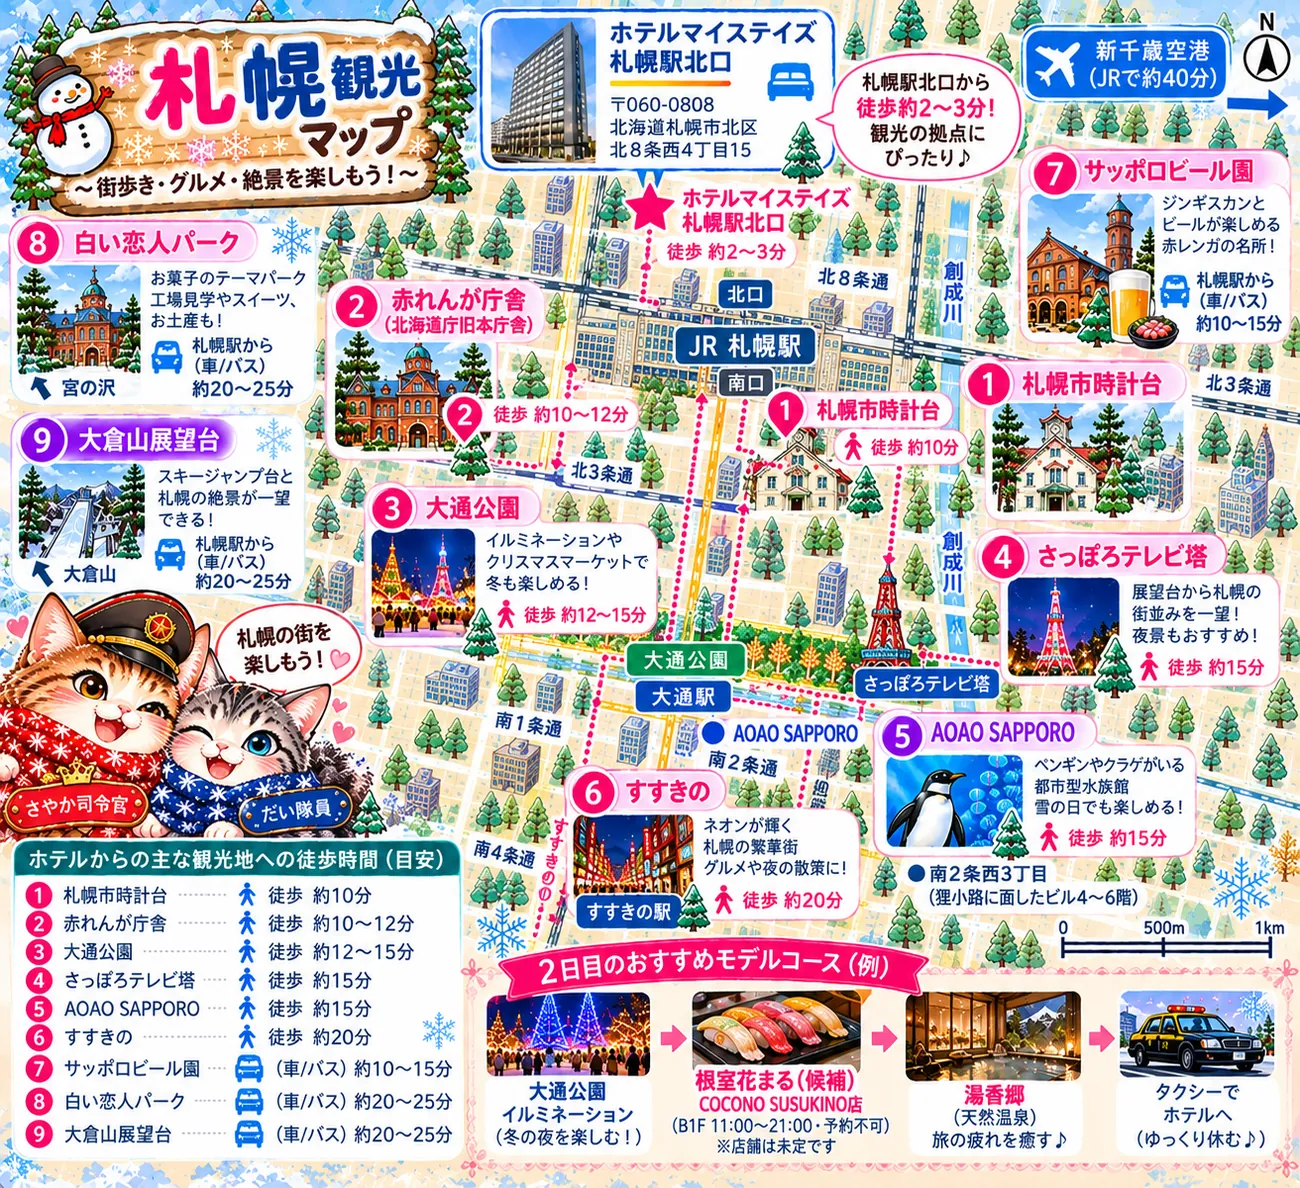
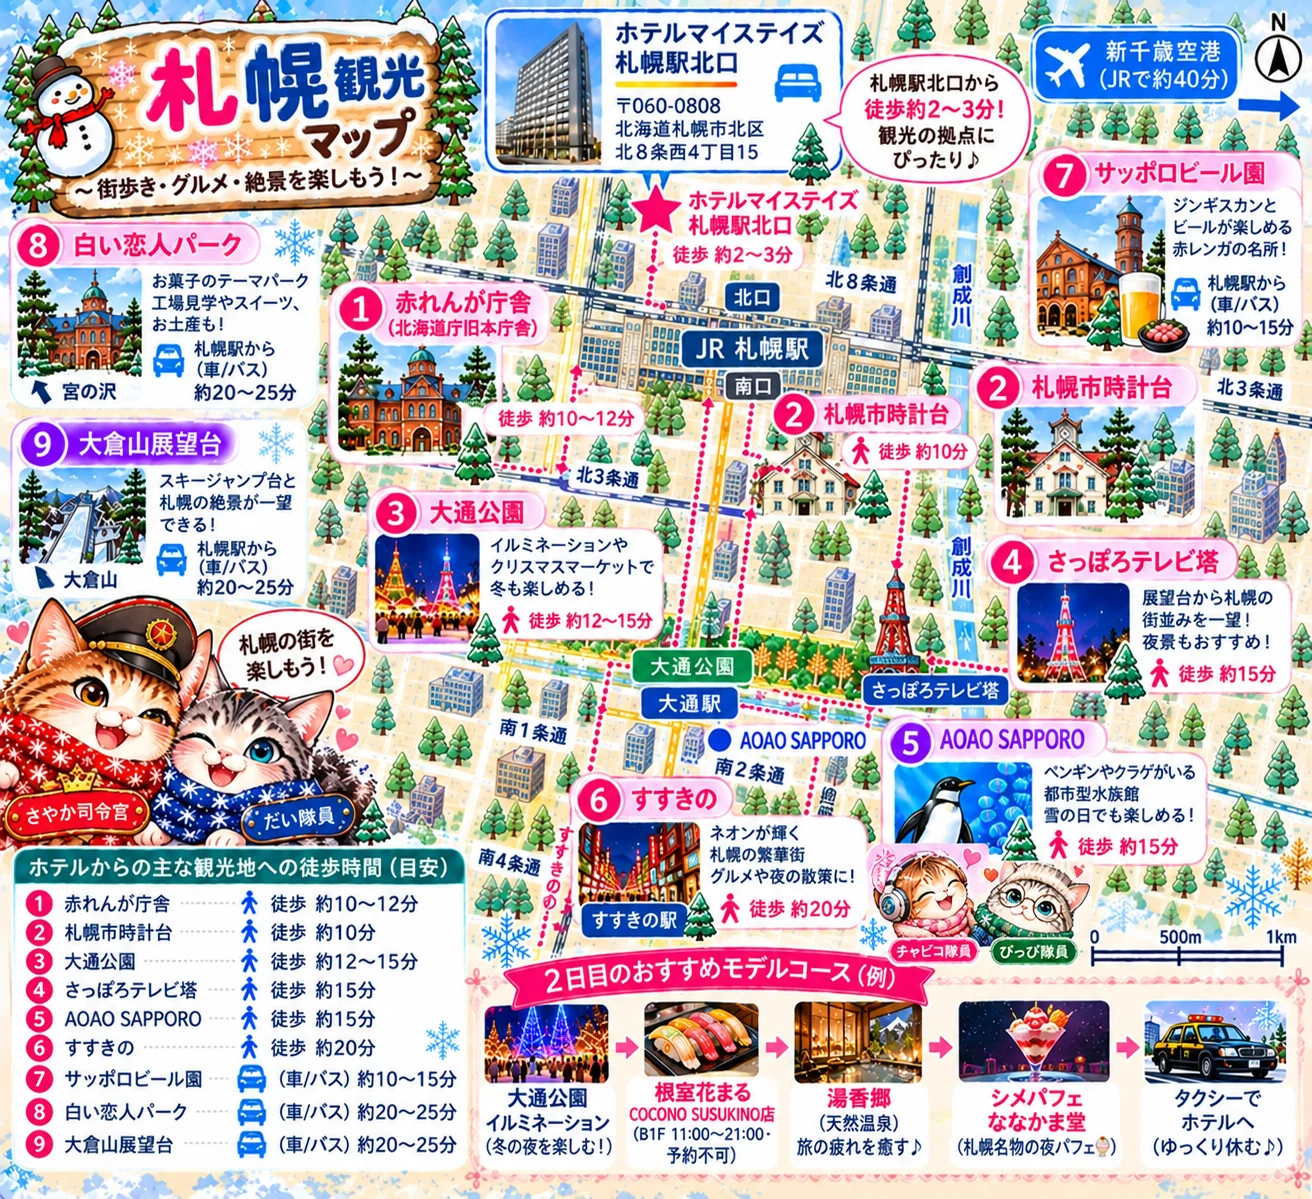
update25: 札幌観光タブの見直し、札幌マップを更新、小樽グルメと花まるの道順を修正

diff --git a/index.html b/index.html
@@ -428,6 +428,14 @@ img[width][height] { height: auto; }
 .info .links { margin-top: 4px; }
 .plan { background: var(--warm-bg); border: 1.5px solid var(--lantern); border-radius: 18px; padding: 12px 14px; margin: 4px 4px 0; font-size: 13.5px; line-height: 1.9; }
 .plan-title { font-weight: 900; color: var(--warm-ink); margin-bottom: 2px; }
+.spot-grid { display: grid; grid-template-columns: 1fr 1fr; gap: 8px; margin: 0 4px 10px; }
+.spot-grid .spot { margin: 0; padding: 10px 10px; }
+.spot-grid .spot b { display: block; font-size: 14px; line-height: 1.45; letter-spacing: -0.02em; }
+.spot-grid.three { grid-template-columns: repeat(3, 1fr); gap: 6px; }
+.spot-grid.three .spot { padding: 9px 4px; text-align: center; display: flex; align-items: center; justify-content: center; }
+.spot-grid.three .spot b .em { display: block; font-size: 18px; line-height: 1.3; }
+.spot-grid.three .spot b i { display: block; font-style: normal; font-size: 11px; }
+.spot-grid.three .spot b { letter-spacing: 0; font-family: var(--font-sans); font-weight: 700; font-size: 12px; line-height: 1.45; }
 .foot { margin: 22px 4px 0; text-align: center; font-family: var(--font-soft); font-size: 13px; color: var(--note); }
 </style>
 <div class="app">
@@ -879,7 +887,7 @@ img[width][height] { height: auto; }
           <p class="note">🎫 店頭の発券機で受付</p>
           <p class="note">⚠ 呼ばれたときにいないと、順番が飛ばされることも</p>
           <div class="links">
-            <a href="https://www.google.com/maps/dir/?api=1&amp;destination=%E6%A0%B9%E5%AE%A4%E8%8A%B1%E3%81%BE%E3%82%8B%20%E3%82%B3%E3%82%B3%E3%83%8E%E3%82%B9%E3%82%B9%E3%82%AD%E3%83%8E%E5%BA%97%20%E5%8C%97%E6%B5%B7%E9%81%93%E6%9C%AD%E5%B9%8C%E5%B8%82%E4%B8%AD%E5%A4%AE%E5%8C%BA%E5%8D%974%E6%9D%A1%E8%A5%BF3%E4%B8%81%E7%9B%AE1-1&amp;travelmode=walking" target="_blank" rel="noopener">📍 道順</a>
+            <a href="https://www.google.com/maps/dir/?api=1&amp;destination=%E6%A0%B9%E5%AE%A4%E8%8A%B1%E3%81%BE%E3%82%8B%20%E3%82%B3%E3%82%B3%E3%83%8E%E3%82%B9%E3%82%B9%E3%82%AD%E3%83%8E%E5%BA%97%20%E5%8C%97%E6%B5%B7%E9%81%93%E6%9C%AD%E5%B9%8C%E5%B8%82%E4%B8%AD%E5%A4%AE%E5%8C%BA%E5%8D%974%E6%9D%A1%E8%A5%BF4-1-1&amp;travelmode=walking" target="_blank" rel="noopener">📍 道順</a>
           </div>
         </div>
         <div class="stop highlight">
@@ -908,7 +916,7 @@ img[width][height] { height: auto; }
           <p class="note">📍 COCONO SUSUKINO B1F</p>
           <p class="note">🕐 L.O. 20:30</p>
           <div class="links">
-            <a href="https://www.google.com/maps/dir/?api=1&amp;destination=%E6%A0%B9%E5%AE%A4%E8%8A%B1%E3%81%BE%E3%82%8B%20%E3%82%B3%E3%82%B3%E3%83%8E%E3%82%B9%E3%82%B9%E3%82%AD%E3%83%8E%E5%BA%97%20%E5%8C%97%E6%B5%B7%E9%81%93%E6%9C%AD%E5%B9%8C%E5%B8%82%E4%B8%AD%E5%A4%AE%E5%8C%BA%E5%8D%974%E6%9D%A1%E8%A5%BF3%E4%B8%81%E7%9B%AE1-1&amp;travelmode=walking" target="_blank" rel="noopener">📍 道順</a>
+            <a href="https://www.google.com/maps/dir/?api=1&amp;destination=%E6%A0%B9%E5%AE%A4%E8%8A%B1%E3%81%BE%E3%82%8B%20%E3%82%B3%E3%82%B3%E3%83%8E%E3%82%B9%E3%82%B9%E3%82%AD%E3%83%8E%E5%BA%97%20%E5%8C%97%E6%B5%B7%E9%81%93%E6%9C%AD%E5%B9%8C%E5%B8%82%E4%B8%AD%E5%A4%AE%E5%8C%BA%E5%8D%974%E6%9D%A1%E8%A5%BF4-1-1&amp;travelmode=walking" target="_blank" rel="noopener">📍 道順</a>
             <a href="https://www.sushi-hanamaru.com/store/details/cocono.html?p=b" target="_blank" rel="noopener">公式HP</a>
             <a href="https://tabelog.com/hokkaido/A0101/A010103/1077328/" target="_blank" rel="noopener">食べログ</a>
           </div>
@@ -1195,7 +1203,6 @@ img[width][height] { height: auto; }
           <li>営業:火〜日 17:00〜21:40(月曜休み)</li>
           <li>予約OK 📞 <a href="tel:0134240769">0134-24-0769</a></li>
           <li>予算:1人4,000円台くらい</li>
-          <li>移転しているので、行く前に地図で場所を確認</li>
         </ul>
         <div class="links">
           <a href="https://tabelog.com/hokkaido/A0106/A010601/1063301/" target="_blank" rel="noopener">食べログ</a>
@@ -1310,27 +1317,37 @@ img[width][height] { height: auto; }
       <div class="subpane sp0">
       <h3 class="food-sec">🗺 札幌観光マップ</h3>
       <div style="margin:0 4px">
-        <img class="map-img" src="img/sapporo-map.webp" width="1300" height="1188" decoding="async" loading="lazy" alt="札幌観光マップ:ホテルマイステイズ札幌駅北口を拠点に、時計台・赤れんが庁舎・大通公園・テレビ塔・AOAO SAPPORO・すすきのへの徒歩時間と、2日目のモデルコース">
+        <img class="map-img" src="img/sapporo-map.webp" width="1312" height="1199" decoding="async" loading="lazy" alt="札幌観光マップ:ホテルマイステイズ札幌駅北口を拠点に、時計台・赤れんが庁舎・大通公園・テレビ塔・AOAO SAPPORO・すすきのへの徒歩時間と、2日目のモデルコース">
         <p class="map-note">ピンチで拡大して見てね 🔍</p>
       </div>
 
-      <h3 class="food-sec">⛄ 札幌観光スポット候補(12/9 水)</h3>
+      <h3 class="food-sec">⛄ 札幌観光スポット(12/9 水)</h3>
       <div class="alert">
         <p class="alert-title">📌 12/9は小樽から札幌へ移動する日</p>
-        全部回るより、行きたい場所を選んでのんびり観光する予定😊
+        行く場所は決まったよ！あとは楽しむだけ😊
       </div>
-      <p class="day-sub" style="margin-top:4px">🥇 優先候補5つ</p>
-        <a class="spot top" href="https://odori-park.jp/" target="_blank" rel="noopener"><b>🎄 大通公園</b><small>イルミネーション・クリスマスマーケット</small></a>
-        <a class="spot top" href="https://www.hokkaido-redbrick.jp/" target="_blank" rel="noopener"><b>🧱 赤れんが庁舎</b><small>歴史的建築・写真撮影</small></a>
-        <a class="spot top" href="https://www.tv-tower.co.jp/" target="_blank" rel="noopener"><b>🗼 さっぽろテレビ塔</b><small>札幌の夜景</small></a>
-        <a class="spot top" href="https://aoao-sapporo.blue/" target="_blank" rel="noopener"><b>🐧 AOAO SAPPORO</b><small>ペンギンやクラゲがいる都市型水族館</small></a>
-        <a class="spot top" href="https://www.sapporo-bier-garten.jp/" target="_blank" rel="noopener"><b>🍖 サッポロビール園</b><small>ジンギスカン</small></a>
-      <p class="day-sub" style="margin-top:14px">✨ プラスアルファ候補</p>
-        <a class="spot" href="https://sapporoshi-tokeidai.jp/" target="_blank" rel="noopener"><b>🕰 札幌市時計台</b><small>札幌の定番スポット</small></a>
-        <a class="spot" href="https://www.shiroikoibitopark.jp/" target="_blank" rel="noopener"><b>🍫 白い恋人パーク</b><small>お菓子・スイーツ・お土産</small></a>
-        <a class="spot" href="https://www.susukino-ta.jp/" target="_blank" rel="noopener"><b>🌃 すすきの</b><small>ネオン街散策・夜ごはん</small></a>
-        <a class="spot" href="http://www.ganso-yokocho.com/" target="_blank" rel="noopener"><b>🍜 元祖さっぽろラーメン横丁</b><small>夜のラーメン</small></a>
-        <a class="spot" href="https://okurayama-jump.jp/" target="_blank" rel="noopener"><b>🌙 大倉山展望台</b><small>ジャンプ台と札幌の景色</small></a>
+      <p class="day-sub" style="margin-top:4px">⭐ 行く予定(2日目の順番)</p>
+      <div class="spot-grid">
+        <a class="spot top" href="https://www.hokkaido-redbrick.jp/" target="_blank" rel="noopener"><b>① 🧱 赤れんが庁舎</b><small>歴史的建築・写真撮影</small></a>
+        <a class="spot top" href="https://sapporoshi-tokeidai.jp/" target="_blank" rel="noopener"><b>② 🕰 時計台</b><small>札幌の定番スポット</small></a>
+        <a class="spot top" href="https://www.tv-tower.co.jp/" target="_blank" rel="noopener"><b>③ 🗼 テレビ塔</b><small>🔭 展望台から一望<br>🌃 札幌の夜景✨</small></a>
+        <a class="spot top" href="https://odori-park.jp/" target="_blank" rel="noopener"><b>④ 🎄 大通公園</b><small>✨ イルミネーション<br>🎅 クリスマス市</small></a>
+      </div>
+      <div class="plan" style="margin:2px 4px 0">
+        <p class="plan-title">🚶 ぶらぶら散歩コース(ゴールはすすきの！)</p>
+        🏨 ホテル → 🧱 赤れんが庁舎 → 🕰 時計台 → 🗼 テレビ塔 → 🎄 大通公園 → 🌃 すすきの
+      </div>
+      <p class="map-note" style="text-align:left">🚶 寄り道なしなら、ぜんぶ歩いて40分くらい</p>
+      <p class="day-sub" style="margin-top:14px">😋 時間があれば…</p>
+      <div class="spot-grid three">
+        <a class="spot" href="https://aoao-sapporo.blue/" target="_blank" rel="noopener"><b><span class="em">🐧</span>AOAO SAPPORO</b></a>
+        <a class="spot" href="https://www.susukino-ta.jp/" target="_blank" rel="noopener"><b><span class="em">🌃</span>すすきの</b></a>
+        <a class="spot" href="http://www.ganso-yokocho.com/" target="_blank" rel="noopener"><b><span class="em">🍜</span>ラーメン横丁</b></a>
+        <a class="spot" href="https://www.sapporo-bier-garten.jp/" target="_blank" rel="noopener"><b><span class="em">🍖</span>ビール園<i>🚌</i></b></a>
+        <a class="spot" href="https://www.shiroikoibitopark.jp/" target="_blank" rel="noopener"><b><span class="em">🍫</span>白い恋人パーク<i>🚌</i></b></a>
+        <a class="spot" href="https://okurayama-jump.jp/" target="_blank" rel="noopener"><b><span class="em">🌙</span>大倉山<i>🚌</i></b></a>
+      </div>
+      <p class="map-note" style="text-align:left">⚠ : 🚌 は、車・バスで10〜25分くらいかかる場所だよ！</p>
       <p class="map-note" style="margin-top:8px">※営業時間・イベント開催状況は、旅行前に各公式サイトで確認しよう！</p>
         <div class="subnext">
           <p>👀 観光スポットのあとは、グルメとシメパフェもチェックしてね！</p>
